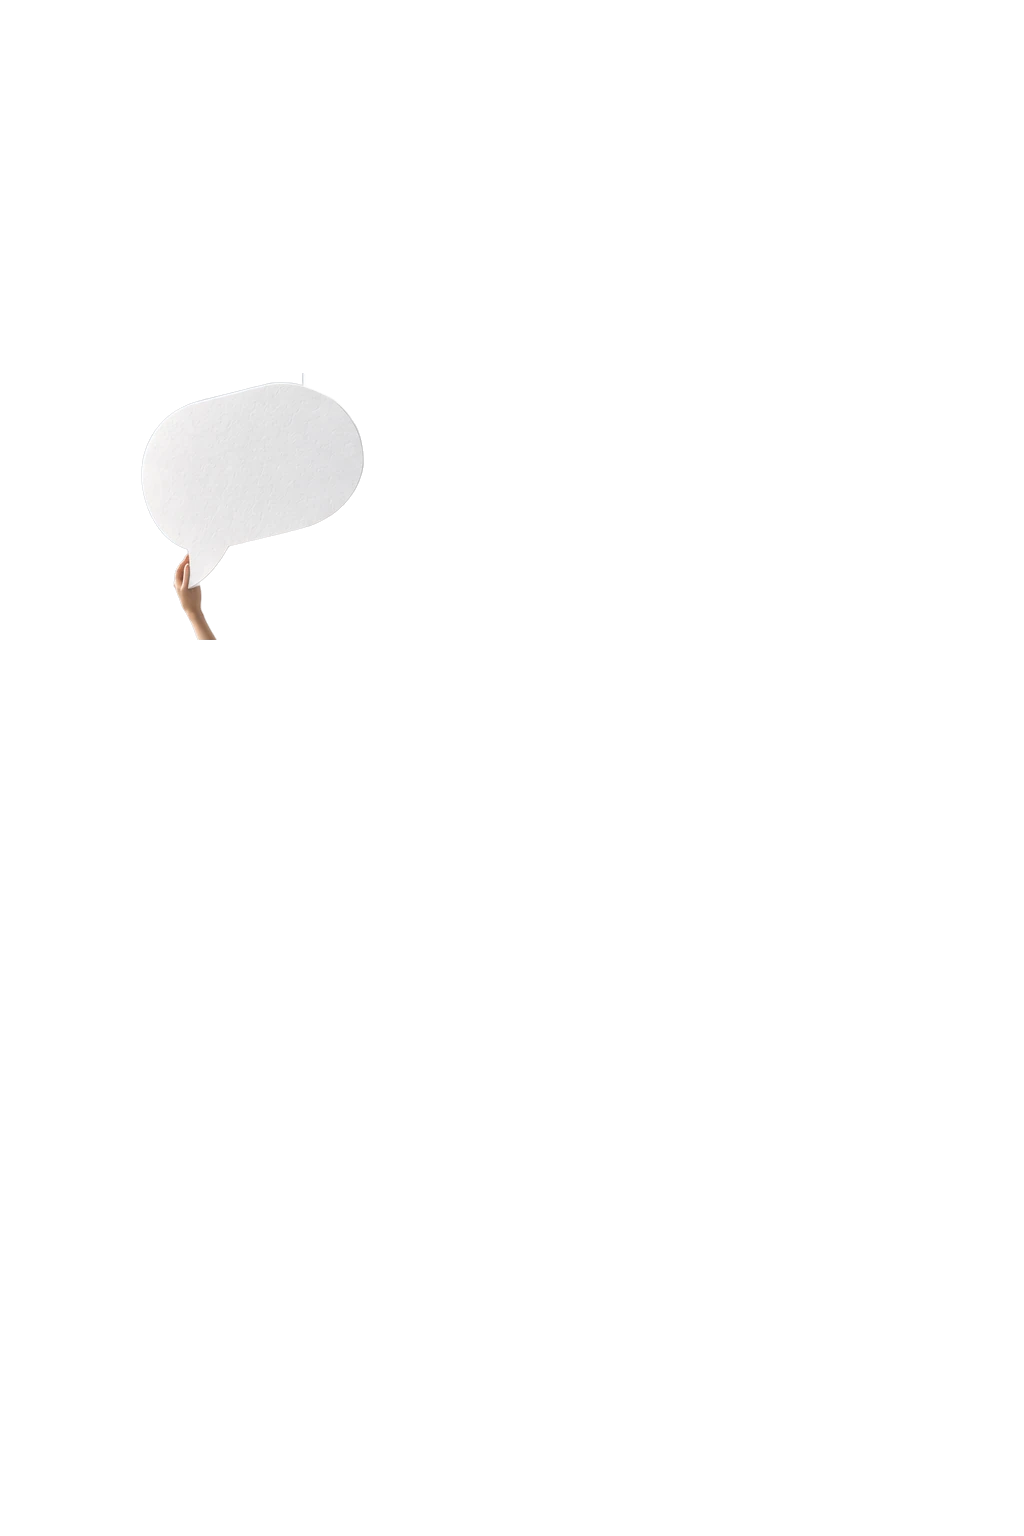
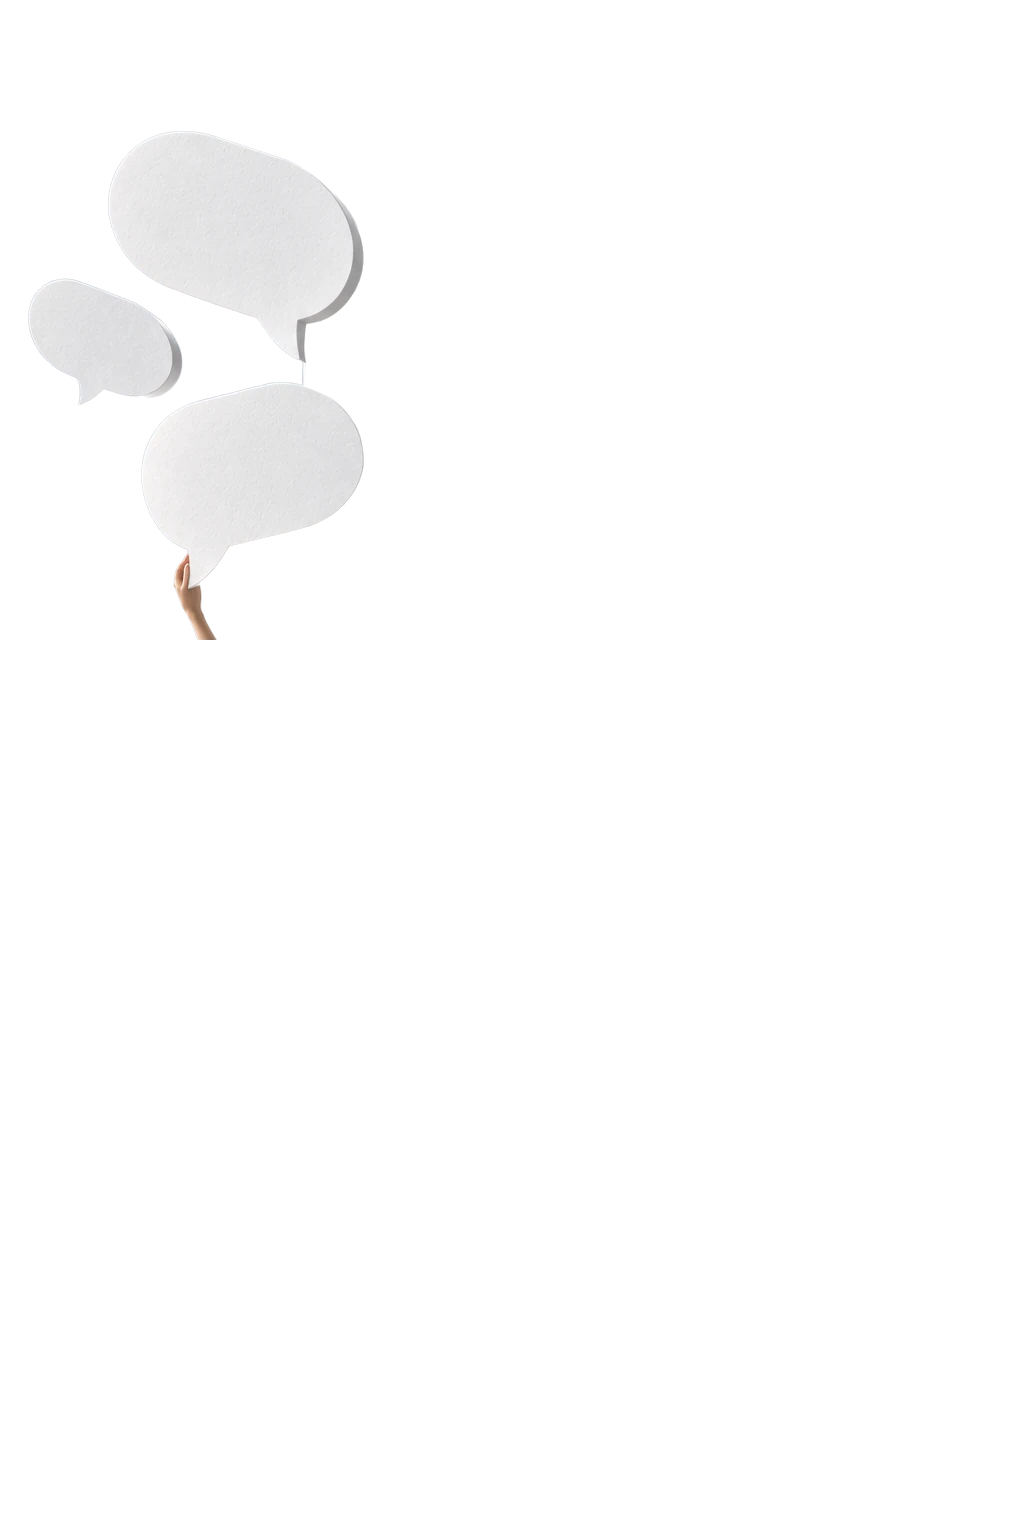
fix(onboarding): AI bubbles stay whole and still, with inked fixed words
Palette A preview only. The three paper bubbles are the photographed ones
again (whole, not cut and floated), kept above the print as one cut-out
with the hand. Each carries a fixed question (fees? risk? how to
allocate?) inked onto it like the print: centred and tilted to the
bubble's own fitted ellipse, dark grey multiplied into the paper.

Changed region(s): [[0.0312, 0.0625, 0.375, 0.2812]]

diff --git a/components/onboarding/GuideCarousel.tsx b/components/onboarding/GuideCarousel.tsx
@@ -82,6 +82,8 @@ const AI_COPY: Partial<Record<AppLocale, AiCopy>> = {
     summary: 'Noted: 1–3 years, steady income, little swing. I will list products you could look at first; for reference only.', input: 'Ask about fees, risk or allocation…', note: 'AI can make mistakes. Answers are for reference only and are not investment advice.', done: 'All set' },
 }
 /** Script times (ms after the page shows): hi, typing, reply, ask, Q1, pick 1, Q2, pick 2, Q3, pick 3, summary. */
+/** Fixed words printed on the three paper bubbles: the questions people bring to the assistant. */
+const BUBBLE_WORDS: Partial<Record<AppLocale, string[]>> = { 'zh-CN': ['费用多少？', '风险？', '怎么配置？'], en: ['Fees?', 'Risk?', 'How to allocate?'] }
 const AI_TIMES = [0, 400, 1000, 1500, 3600, 4300, 5500, 6400, 7500, 8400, 9500, 10500]
 
 /** Steps through the script while the page is current; starts over each time it becomes current. */
@@ -106,17 +108,6 @@ function Typed({ text, go }: { text: string; go: boolean }) {
     return () => clearInterval(t)
   }, [go, text])
   return <>{text.slice(0, n)}{go && n < text.length && <i className={styles.caret} />}</>
-}
-
-/** What the two paper bubbles in the air say at each step (the question in play, and the answer just picked). */
-function aiBubbleText(locale: AppLocale, step: number): [string, string] {
-  const c = AI_COPY[locale] ?? AI_COPY.en!
-  const q = step >= 9 ? 2 : step >= 7 ? 1 : 0
-  const big = step >= 11 ? c.done : step >= 5 ? c.qs[q][2] : step >= 4 ? c.ask : step >= 1 ? c.hi : ''
-  const pickedSteps = [6, 8, 10]
-  const lastPick = pickedSteps.filter(t => step >= t).length - 1
-  const small = lastPick >= 0 ? c.qs[lastPick][1][c.pick[lastPick]] : step >= 2 ? '…' : ''
-  return [big, small]
 }
 
 const Msg = ({ show, children, className }: { show: boolean; children: React.ReactNode; className: string }) =>
@@ -206,9 +197,9 @@ type Quad = { tl: number[]; tr: number[]; br: number[]; bl: number[] }
     print is clipped to, an optional cut-out that sits above the print, and the page printed on it. */
 /** Paper objects cut out of a scene and floated in code: [file, left %, top %, width %, height %, drift y px, turn deg, seconds]. */
 type Floater = [string, number, number, number, number, number, number, number]
-const SCENES: Record<string, { photo: string; person?: string; face: Quad; flat: string; Print: (p: { locale: AppLocale; active: boolean; step?: number }) => React.ReactElement; floaters?: Floater[]; script?: boolean }> = {
+const SCENES: Record<string, { photo: string; person?: string; face: Quad; flat: string; Print: (p: { locale: AppLocale; active: boolean; step?: number }) => React.ReactElement; floaters?: Floater[]; script?: boolean; labels?: [number, number, number, number][] }> = {
   paper: { photo: 'paper-scene-w', person: 'paper-person-w', face: FACE, flat: FLAT, Print: PrintedHome },
-  ai: { photo: 'ai-scene-bg', person: 'ai-front', script: true, floaters: [['ai-bubble-big', 10.55, 8.53, 25, 15.82, -8, -1.5, 5.2], ['ai-bubble-small', 2.73, 18.1, 15.14, 8.27, 6, 2, 4.4]], face: {"tl": [30.27, 6.45], "tr": [81.45, 3.13], "br": [81.45, 88.74], "bl": [30.27, 81.71]}, flat: '33.4% 6.3%, 79% 3%, 80.6% 3.2%, 81.4% 4.4%, 81.4% 86%, 80.7% 87.6%, 79% 88.3%, 32% 81.6%, 30.4% 80.4%, 30.4% 9.2%, 31.2% 7.9%, 32% 6.6%', Print: PrintedAi },
+  ai: { photo: 'ai-scene', person: 'ai-front', script: true, labels: [[23.15, 15.05, 27.1, 3.7], [10.08, 22.11, 26.6, 2.3], [24.25, 30.46, -19, 3.4]], face: {"tl": [30.27, 6.45], "tr": [81.45, 3.13], "br": [81.45, 88.74], "bl": [30.27, 81.71]}, flat: '33.4% 6.3%, 79% 3%, 80.6% 3.2%, 81.4% 4.4%, 81.4% 86%, 80.7% 87.6%, 79% 88.3%, 32% 81.6%, 30.4% 80.4%, 30.4% 9.2%, 31.2% 7.9%, 32% 6.6%', Print: PrintedAi },
 }
 
 /**
@@ -229,18 +220,17 @@ function PaperScene({ scene, active, locale }: { scene: string; active: boolean;
   const Print = sc.Print
   const reduced = useReducedMotion()
   const step = useScript(active && !!sc.script, AI_TIMES)
-  const words = sc.script ? aiBubbleText(locale, step) : null
   return <div className={styles.paperStage} ref={stage}>
     <img className={styles.paperPhoto} src={`${ART}/${sc.photo}.webp`} alt="" draggable={false} />
     {box.w > 0 && <div className={styles.faceClip} style={{ clipPath: `polygon(${sc.flat})` }}>
       <div className={styles.face} style={{ width: FACE_W, height: FACE_H, transform: quadMatrix(q) }}><Print locale={locale} active={active} step={sc.script ? step : undefined} /></div>
     </div>}
     {sc.person && <img className={styles.paperPerson} src={`${ART}/${sc.person}.webp`} alt="" draggable={false} />}
+    {sc.labels?.map(([cx, cy, ang, size], k) => <span key={k} className={styles.bubbleInk} style={{ left: `${cx}%`, top: `${cy}%`, rotate: `${ang}deg`, fontSize: `${size}cqw` }}>{(BUBBLE_WORDS[locale] ?? BUBBLE_WORDS.en!)[k]}</span>)}
     {sc.floaters?.map(([src, left, top, width, height, dy, turn, sec], k) => <motion.div key={src} className={styles.floater} data-k={k}
       style={{ left: `${left}%`, top: `${top}%`, width: `${width}%`, height: `${height}%` }}
       animate={reduced ? undefined : { y: [0, dy, 0], rotate: [0, turn, 0] }} transition={{ duration: sec, ease: 'easeInOut', repeat: Infinity }}>
       <img src={`${ART}/${src}.webp`} alt="" draggable={false} />
-      {words && <AnimatePresence mode="wait"><motion.span key={words[k]} className={styles.floatText} initial={{ opacity: 0, y: 4 }} animate={{ opacity: 1, y: 0 }} exit={{ opacity: 0, y: -4 }} transition={{ duration: .3 }}>{words[k]}</motion.span></AnimatePresence>}
     </motion.div>)}
   </div>
 }

diff --git a/components/onboarding/GuideCarousel.module.css b/components/onboarding/GuideCarousel.module.css
@@ -420,3 +420,7 @@
 .floatText { left: 10%; right: 10%; top: 20%; bottom: 44%; font-size: 14px; }
 .floater[data-k='0'] .floatText { rotate: 19deg; }
 .floater[data-k='1'] .floatText { rotate: 22deg; left: 10%; right: 12%; top: 26%; bottom: 36%; font-size: 12px; }
+/* Round 29: the bubbles stay as photographed (whole, still); fixed words are inked onto them like the print. */
+.paperStage { container-type: inline-size; }
+.bubbleInk { position: absolute; z-index: 4; translate: -50% -50%; white-space: nowrap; color: #2b3038; font-weight: 600; letter-spacing: .02em;
+  mix-blend-mode: multiply; opacity: .9; filter: blur(.2px); text-shadow: 0 .5px 0 rgba(255, 255, 255, .55); pointer-events: none; }
